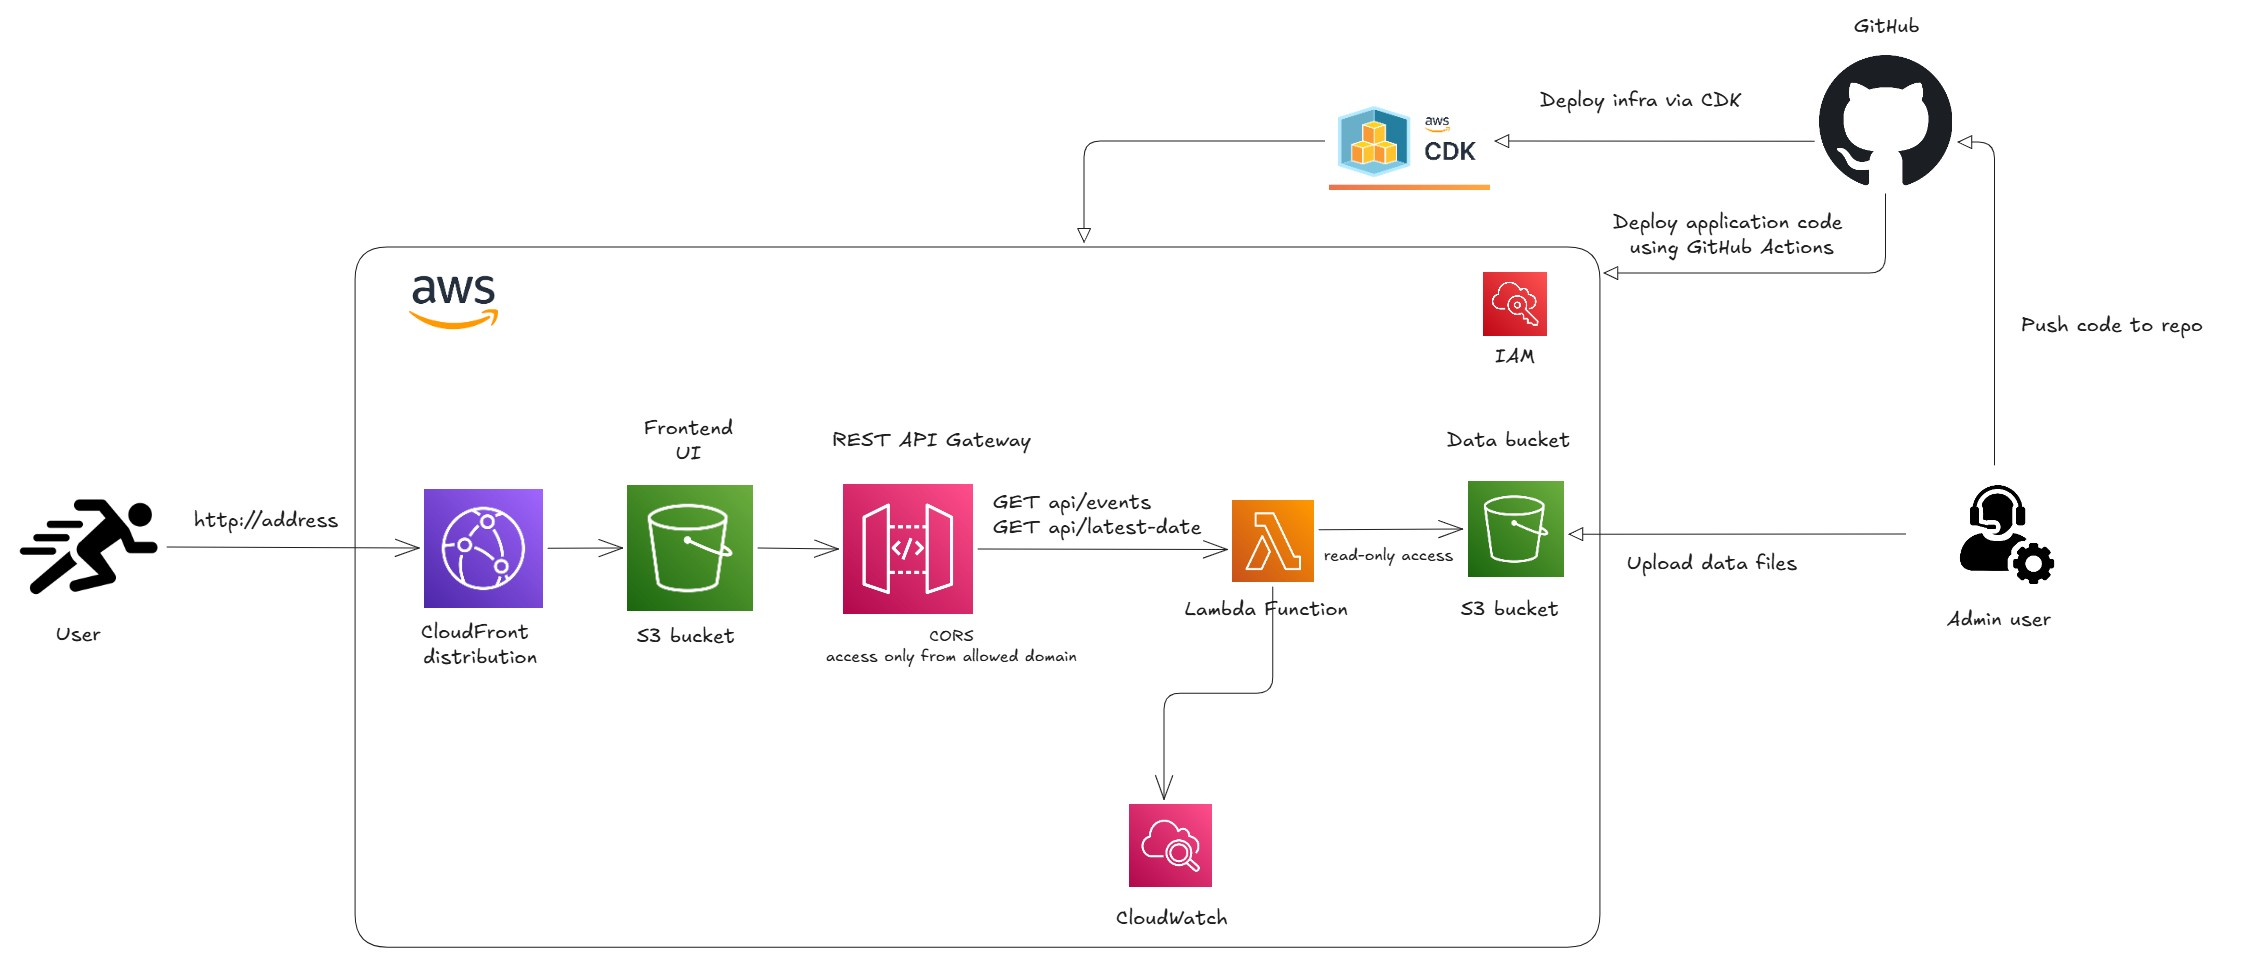
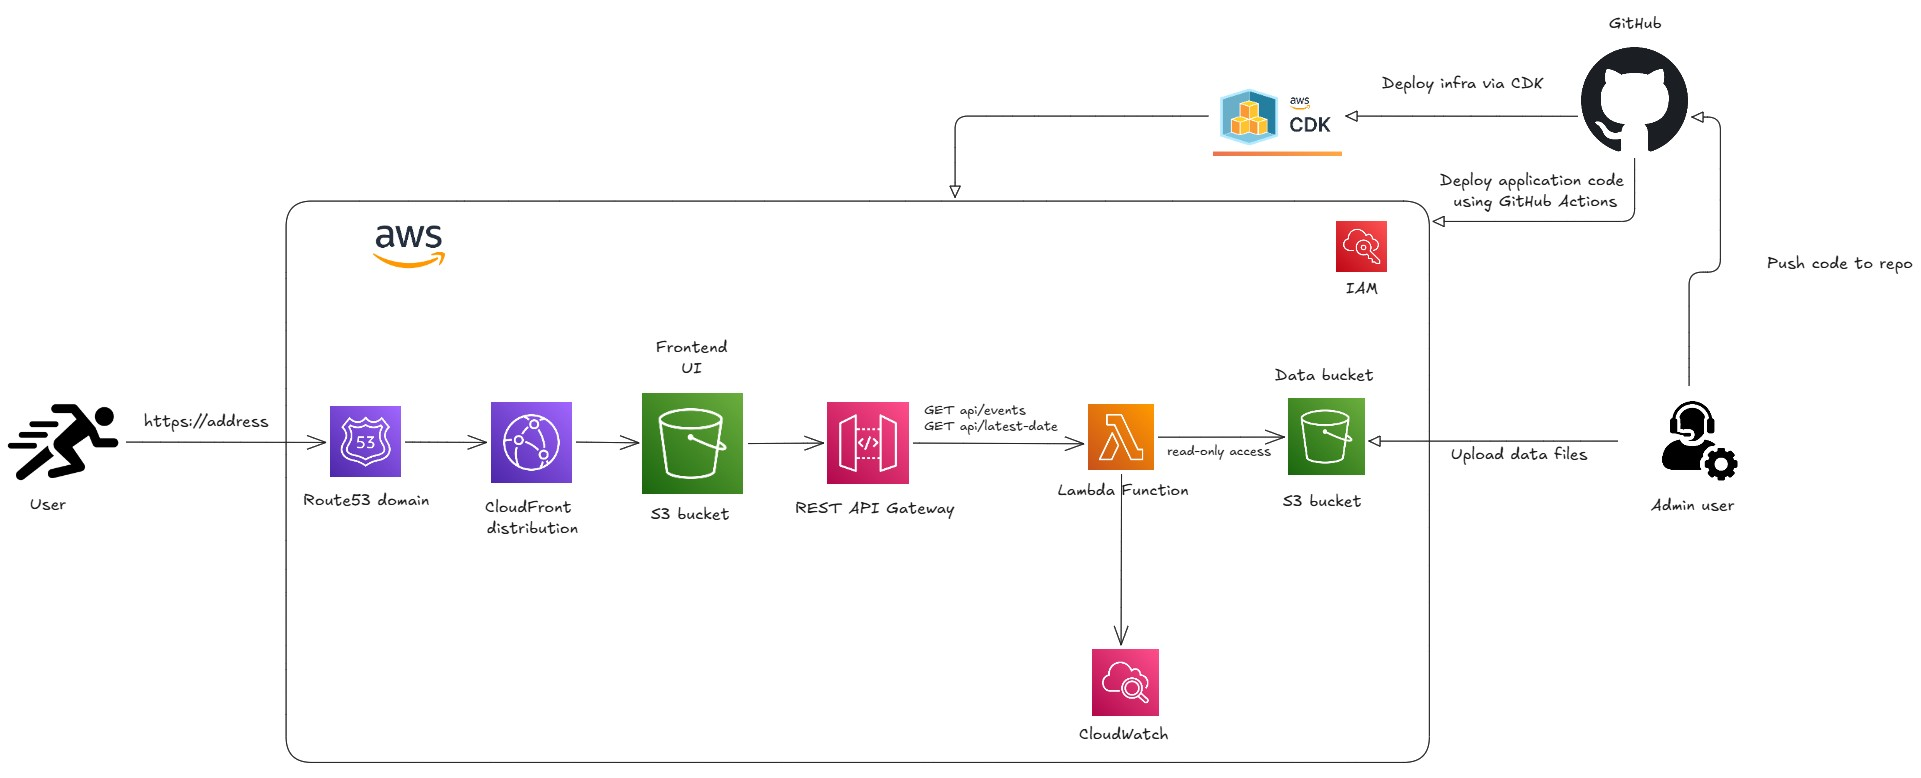
Update documentation

diff --git a/readme.md b/readme.md
@@ -4,15 +4,19 @@ This is a personal hobby project to show ParkRun event statistics for Nordic cou
 
 ![Screenshot of the UI](./public/frontend.jpg)
 
-Tech stack is Node.js/Typescript, React and AWS CDK. Deployments are done with GitHub Actions.
+Tech stack is Node.js/Typescript, React and AWS CDK. Locally environments can run on standalone setup, if you have node.js and npm installed, or in Docker. Deployments to AWS are done with GitHub Actions.
 ![Screenshot of the UI](./public/infra.jpg)
 
-Data update relies on manual updates for now, as source data has to be fetched from official ParkRun website first. This project includes a scraper that gets the data and inserts it to a PostgreSQL database running in Docker. From there, data can be exported as JSON, which is then uploaded to S3 bucket.
+Data update relies on manual updates for now, as source data has to be fetched from official ParkRun website first. This project includes a scraper that gets the data and inserts it to a PostgreSQL database running in Docker. From there, data can be exported as JSON, which is then uploaded to S3 data bucket.
+
+**Note:** Application assumes data files are there in data bucket in correctly named files, with correct format.
 
 ## Prerequisites
-- Node.js v22.14.0
+- Node.js v22 or higher
+- npm
 - Docker
 - AWS Account
+- Route 53 domain
 
 ### Local setup
 0. Run `npm install &&  npm run build` from project root.
@@ -35,34 +39,41 @@ npm run scraper -- --country XX --from 2025-MM-DD
 ```
 This might fail to captcha. I won't instruct here how to get past that.
 
-4. Export data from the database as `json`, save file to `data` folder with name `parkrun-data.json`. See template file to ensure format is correct.
+4. Export data from the database as `json`, save file to `data` folder with name `parkrun-data.json`. Create another file for `latest_date.json` that contains the latest event date you have in data. See template files to ensure format is correct.
 5. If data fetching worked and you have docker containers running, you can see the UI from `localhost:5173`.
 
 ### Cloud setup
-1. Run CloudFormation stack `oidc-role.yml` to your AWS account to setup permissions for GitHub Actions
+1. Run CloudFormation stack `oidc-role.yml` to your AWS account to setup permissions for GitHub Actions.
 2. Add these secrets to GitHub repo:
 - AWS_ROLE_ARN (see output from oidc-role.yml)
 - AWS_ACCOUNT_ID
 As repo variable, add domain name (e.g. yourdomain.com). You need to have manually set up domain first.
+GitHub Actions job `gliech/create-github-secret-action@v1` needs PAT token with write access to repo secrets, it will save other secrets required to deploy frontend and API.
 
-GitHub Actions will update other secrets based on CDK stack outputs.
+3. Push changes to main branch - observe pipelines triggering. Run `deploy-infra.yml` first so you have infrastructure. Then `deploy-api` and `deploy-frontend` have something to push into. You can also trigger pipelines manually and select the environment and branch you want to deploy.
 
-3. Push changes to main branch - observe pipelines triggering. Run `deploy-infra.yml` first so you have infrastructure. Then `deploy-api` and `deploy-frontend` have something to push into.
+I usually first push my feature branch, then use manual trigger to deploy that branch to dev environment. If that works, then main branch can be updated.
 
 ### Environments
 Cloud environments are managed via context in `cdk.json`. As template, dev and prod are configured.
 If you want to do cdk deploy from local computer, you may need to change cdk.json dev environment to contain AWS account ID.
 
-Local setup is handled via docker-compose. For local env, create `.env` file in backend folder:
+Local setup is handled via docker-compose. For local env:
+1. create `.env` file in backend folder:
 ```
 DATABASE_URL=postgresql://parkrun:parkrun@localhost:5432/parkrun?schema=public
 FRONTEND_URL=http://localhost:5173
 NODE_ENV=development
 PORT=3001
 ```
+2. create `.env` file in frontend folder:
+```
+VITE_API_URL=http://localhost:3001
+```
 
 ### Deployments
 - CDK is used only to provision infrastructure. It does not deploy application code.
 - Frontend pipeline triggers when changes are done to `frontend` folder on main branch.
+- API pipeline triggers when changes are done to `api` folder on main branch.
 - CDK pipeline uses GitHub action that writes S3 bucket and Cloudfront ID into GitHub repo secrets, which frontend deployment uses to deploy code.
 

diff --git a/cdk/README.md b/cdk/README.md
@@ -1,6 +1,6 @@
 # ParkRun Infrastructure
 
-This project contains the AWS CDK infrastructure code for the ParkRun application.
+This project contains the AWS CDK infrastructure code for the ParkRun Statistics application.
 
 ## Architecture
 
@@ -9,14 +9,16 @@ The infrastructure consists of:
 - Route53 hosted zone management
 - ACM creation and management
 - S3 bucket for frontend code
+- Lambda function and API gateway setup
+- CloudWatch monitoring
 
 
 ### Environments
 Environments are managed via context. If another environment is desireable, just add or modify an account in `cdk.json` and run command e.g. `cdk deploy --all -c environment=prod` to deploy prod.
 
-For different configurations to e.g. DB cluster per env, more configs would need to be added to `cdk.json` and `config.ts`.
+For different configurations to e.g. different AWS account per env, modify `cdk.json`.
 
-For now, GitHub actions are defined to deploy 'prod' environment with default settings. If this is deployed locally and no environment variable is set, it deploys 'dev'. Currently the only difference with these two is that resource names are different.
+GitHub actions are defined to deploy 'dev' environment with default settings. Deploying to 'prod' is done by triggering the workflows manually. If this is deployed locally and no environment variable is set, it deploys 'dev'. Currently the only difference with these two is that resource names are different.
 
 
 ## Prerequisites
@@ -24,6 +26,7 @@ For now, GitHub actions are defined to deploy 'prod' environment with default se
 - Node.js 22.x
 - GitHub account with repository secrets set up
 - AWS account with appropriate permissions (see related OIDC-role.yml)
+- Route53 domain that has been created beforehand.
 
 ## Setup
 
@@ -45,11 +48,12 @@ cdk deploy --all
 cdk destroy --all
 ```
 3. Provision infrastructure using `deploy-infra` workflow.
-4. Connect to database, run schema updates and populate tables.
-5. Deploy backend with `deploy-backend`.
+4. Run scraper locally, export data from database as json and save files to S3 data bucket.
+5. Deploy API with `deploy-api`.
 6. Deploy frontend with `deploy-frontend`.
 
 ### Security, monitoring
 - Frontend is deployed to S3 for ease of deployment and cost savings.
 - S3 is only accessible from CloudFront distribution.
+- API is only accessible from frontend domain.
 - Logs, metrics go to CloudWatch so identifying access and usage patterns is doable.

diff --git a/frontend/README.md b/frontend/README.md
@@ -1,6 +1,6 @@
 # ParkRun Nordic Statistics Frontend
 
-A React-based frontend application for displaying parkrun statistics from Nordic countries.
+A React-based frontend application for displaying ParkRun statistics from Nordic countries.
 
 ## Features
 
@@ -56,25 +56,28 @@ The application will be available at `http://localhost:5173`
 frontend/
 ├── public/              # Static files
 │   └── parkrun_logo.png
+│   └── 404.html
+│   └── 500.html
 ├── src/
 │   ├── components/     # React components
 │   │   └── StatsTable.tsx
 │   │   └── LastUpdated.tsx
 │   │   └── ErrorBoundary.tsx
 │   ├── services/
-│   │   └── time_format.ts # The only "calculation" done in UI.
+│   │   └── aoi.ts # Use API to fetch data
+│   │   └── time_format.ts  # The only "calculation" done in UI.
 │   ├── data/
 │   │   └── parkrun-data.ts # Source data
-│   ├── App.tsx        # Main application component
-│   ├── main.tsx       # Application entry point
-│   └── theme.ts       # Material-UI theme configuration
+│   ├── App.tsx             # Main application component
+│   ├── main.tsx            # Application entry point
+│   └── theme.ts            # Material-UI theme configuration
 ```
 
 
 
 ## Technology Stack
 
-- React 19
+- React
 - TypeScript
 - Vite
-- Material-UI v7
+- Material-UI
